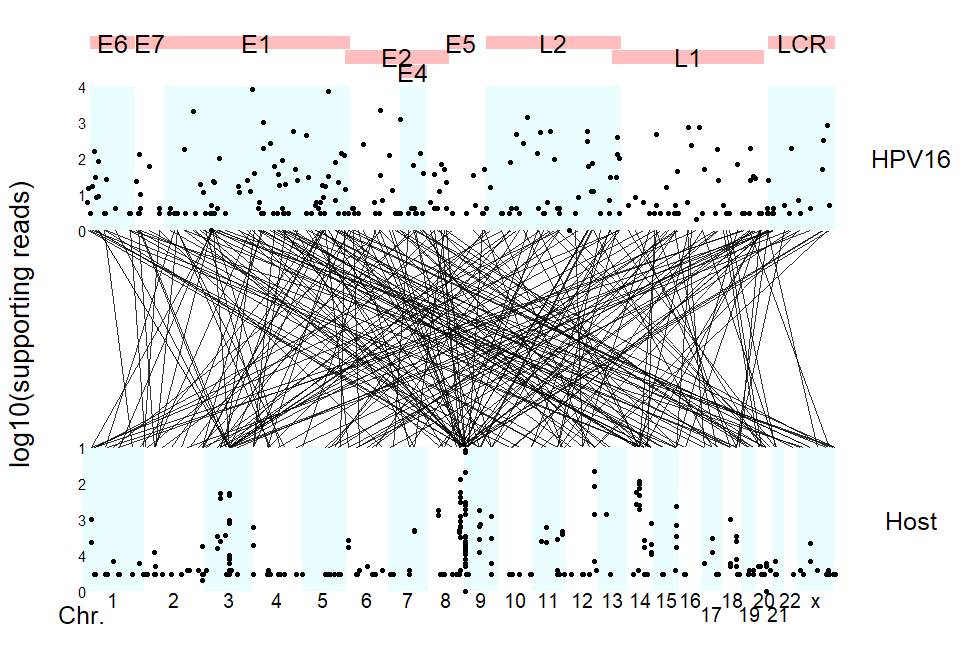
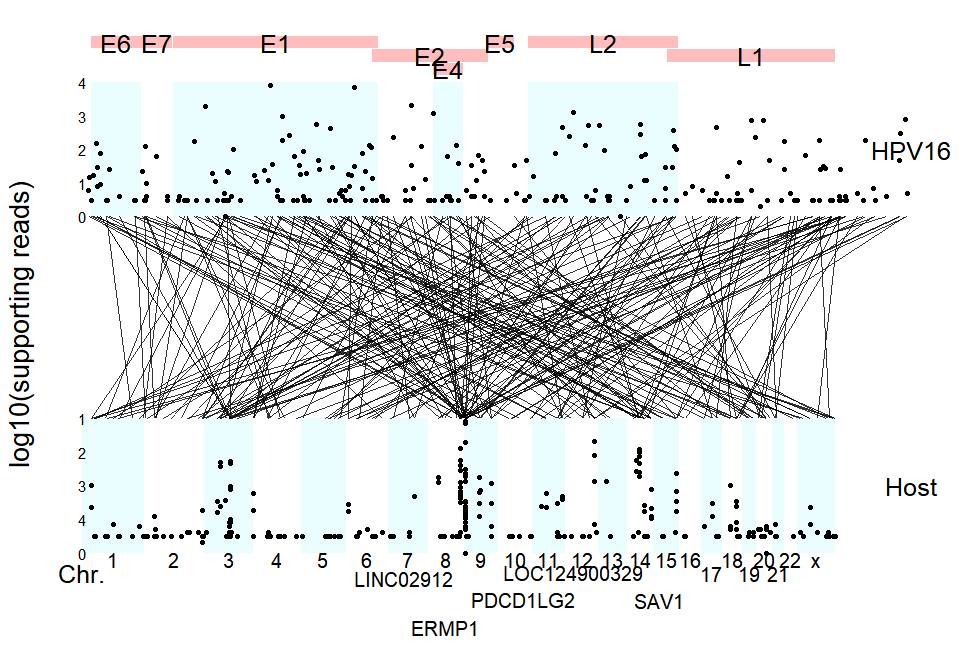
update

diff --git a/README.md b/README.md
@@ -27,6 +27,8 @@ Download virus genome
 
 ``` r
 library(virusPlot)
+#> 
+#> 
 genome <- get_virus_genom(accession_number = "NC_001526.2",
     email = "13766876214@163.com")
 head(genome)
@@ -44,7 +46,6 @@ Download virus annotation
 ``` r
 gene_features <- get_virus_annotation(accession_number = "NC_001526.2",
     email = "13766876214@163.com")
-#> No encoding supplied: defaulting to UTF-8.
 virus_info <- deal_virus_annotation(gene_features)
 virus_info
 #>   gene start  end
@@ -76,14 +77,27 @@ circle_virus(virus_info, insert_num)
 
 ``` r
 data(insert_info)
-virus_info <- data.frame(
-      gene = c("E6", "E7", "E1", "E2", "E4", "E5", "L2", "L1", "LCR"),
-      start = c(83, 562, 865, 2755, 3332, 3849, 4236, 5560, 7200),
-      end = c(559, 858, 2813, 3852, 3619, 4100, 5657, 7155, 7904))
-strudel_plot(virus_info, insert_info)
+# virus_info <- data.frame(
+#       gene = c("E6", "E7", "E1", "E2", "E4", "E5", "L2", "L1", "LCR"),
+#       start = c(83, 562, 865, 2755, 3332, 3849, 4236, 5560, 7200),
+#       end = c(559, 858, 2813, 3852, 3619, 4100, 5657, 7155, 7904))
+# HPV16
+gene_features <- get_virus_annotation(accession_number = "NC_001526.2",
+    email = "13766876214@163.com")
+virus_info_NC_001526 <- deal_virus_annotation(gene_features)
+strudel_plot(virus_info = virus_info_NC_001526, insert_info, hot_gene = 5)
+#> >> done...                    2024-01-31 19:06:13
 ```
 
 <img src="man/figures/README-unnamed-chunk-6-1.png" width="100%" />
+
+``` r
+strudel_plot(virus_info = virus_info_NC_001526, insert_info, 
+             hot_gene = c( "SAV1", "ZPLD1", "CHMP6", "IRS4"))
+#> >> done...                    2024-01-31 19:06:42
+```
+
+<img src="man/figures/README-unnamed-chunk-7-1.png" width="100%" />
 
 ``` r
 data(vcf_matrix)
@@ -95,7 +109,7 @@ oncoplot(vcf_matrix, varis_color = col,
     clinical_color = cli_colors, na.value = "#F3F5F7")
 ```
 
-<img src="man/figures/README-unnamed-chunk-7-1.png" width="100%" />
+<img src="man/figures/README-unnamed-chunk-8-1.png" width="100%" />
 
 ``` r
 sessionInfo()
@@ -117,27 +131,172 @@ sessionInfo()
 #> tzcode source: internal
 #> 
 #> attached base packages:
-#> [1] stats     graphics  grDevices utils     datasets  methods   base     
+#> [1] stats4    stats     graphics  grDevices utils     datasets  methods  
+#> [8] base     
 #> 
 #> other attached packages:
-#> [1] virusPlot_0.1.0
+#> [1] org.Hs.eg.db_3.18.0  AnnotationDbi_1.64.1 IRanges_2.36.0      
+#> [4] S4Vectors_0.40.1     Biobase_2.62.0       BiocGenerics_0.48.1 
+#> [7] virusPlot_0.1.1     
 #> 
 #> loaded via a namespace (and not attached):
-#>  [1] yulab.utils_0.0.9  tidyr_1.3.0        utf8_1.2.4         generics_0.1.3    
-#>  [5] ggplotify_0.1.2    maftools_2.18.0    lattice_0.21-9     digest_0.6.33     
-#>  [9] magrittr_2.0.3     shadowtext_0.1.2   RColorBrewer_1.1-3 evaluate_0.23     
-#> [13] grid_4.3.2         fastmap_1.1.1      Matrix_1.6-4       jsonlite_1.8.8    
-#> [17] survival_3.5-7     gridExtra_2.3      httr_1.4.7         purrr_1.0.2       
-#> [21] fansi_1.0.6        aplot_0.2.1        scales_1.3.0       ggstar_1.0.4      
-#> [25] XML_3.99-0.14      cli_3.6.2          rlang_1.1.3        splines_4.3.2     
-#> [29] munsell_0.5.0      withr_3.0.0        cachem_1.0.8       yaml_2.3.7        
-#> [33] DNAcopy_1.76.0     tools_4.3.2        memoise_2.0.1      dplyr_1.1.4       
-#> [37] colorspace_2.1-0   ggplot2_3.4.4      forcats_1.0.0      curl_5.1.0        
-#> [41] vctrs_0.6.5        R6_2.5.1           gridGraphics_0.5-1 lifecycle_1.0.4   
-#> [45] ggfun_0.1.3        pkgconfig_2.0.3    pillar_1.9.0       rentrez_1.2.3     
-#> [49] gtable_0.3.4       data.table_1.14.8  glue_1.7.0         aplotExtra_0.0.2  
-#> [53] xfun_0.40          tibble_3.2.1       tidyselect_1.2.0   highr_0.10        
-#> [57] rstudioapi_0.15.0  knitr_1.45         farver_2.1.1       htmltools_0.5.7   
-#> [61] patchwork_1.1.3    rmarkdown_2.25     ggsci_3.0.0        labeling_0.4.3    
-#> [65] compiler_4.3.2
+#>   [1] splines_4.3.2                           
+#>   [2] later_1.3.1                             
+#>   [3] BiocIO_1.12.0                           
+#>   [4] bitops_1.0-7                            
+#>   [5] ggplotify_0.1.2                         
+#>   [6] filelock_1.0.2                          
+#>   [7] tibble_3.2.1                            
+#>   [8] polyclip_1.10-6                         
+#>   [9] XML_3.99-0.14                           
+#>  [10] lifecycle_1.0.4                         
+#>  [11] lattice_0.21-9                          
+#>  [12] MASS_7.3-60                             
+#>  [13] magrittr_2.0.3                          
+#>  [14] rmarkdown_2.25                          
+#>  [15] yaml_2.3.7                              
+#>  [16] plotrix_3.8-4                           
+#>  [17] httpuv_1.6.12                           
+#>  [18] cowplot_1.1.1                           
+#>  [19] DBI_1.1.3                               
+#>  [20] RColorBrewer_1.1-3                      
+#>  [21] abind_1.4-5                             
+#>  [22] zlibbioc_1.48.0                         
+#>  [23] GenomicRanges_1.54.0                    
+#>  [24] purrr_1.0.2                             
+#>  [25] ggraph_2.1.0                            
+#>  [26] RCurl_1.98-1.12                         
+#>  [27] yulab.utils_0.0.9                       
+#>  [28] tweenr_2.0.2                            
+#>  [29] rappdirs_0.3.3                          
+#>  [30] GenomeInfoDbData_1.2.11                 
+#>  [31] enrichplot_1.23.1.991                   
+#>  [32] ggrepel_0.9.4                           
+#>  [33] tidytree_0.4.5                          
+#>  [34] rentrez_1.2.3                           
+#>  [35] ChIPseeker_1.39.0                       
+#>  [36] codetools_0.2-19                        
+#>  [37] DelayedArray_0.28.0                     
+#>  [38] DNAcopy_1.76.0                          
+#>  [39] DOSE_3.29.1.991                         
+#>  [40] xml2_1.3.5                              
+#>  [41] ggforce_0.4.1                           
+#>  [42] tidyselect_1.2.0                        
+#>  [43] aplot_0.2.1                             
+#>  [44] farver_2.1.1                            
+#>  [45] viridis_0.6.4                           
+#>  [46] matrixStats_1.0.0                       
+#>  [47] BiocFileCache_2.10.1                    
+#>  [48] GenomicAlignments_1.38.0                
+#>  [49] jsonlite_1.8.8                          
+#>  [50] ellipsis_0.3.2                          
+#>  [51] tidygraph_1.2.3                         
+#>  [52] survival_3.5-7                          
+#>  [53] tools_4.3.2                             
+#>  [54] progress_1.2.2                          
+#>  [55] treeio_1.26.0                           
+#>  [56] TxDb.Hsapiens.UCSC.hg19.knownGene_3.2.2 
+#>  [57] ggstar_1.0.4                            
+#>  [58] Rcpp_1.0.12                             
+#>  [59] glue_1.7.0                              
+#>  [60] gridExtra_2.3                           
+#>  [61] SparseArray_1.2.0                       
+#>  [62] xfun_0.40                               
+#>  [63] qvalue_2.34.0                           
+#>  [64] MatrixGenerics_1.14.0                   
+#>  [65] GenomeInfoDb_1.38.1                     
+#>  [66] dplyr_1.1.4                             
+#>  [67] withr_3.0.0                             
+#>  [68] BiocManager_1.30.22                     
+#>  [69] fastmap_1.1.1                           
+#>  [70] boot_1.3-28.1                           
+#>  [71] fansi_1.0.6                             
+#>  [72] caTools_1.18.2                          
+#>  [73] digest_0.6.33                           
+#>  [74] R6_2.5.1                                
+#>  [75] mime_0.12                               
+#>  [76] gridGraphics_0.5-1                      
+#>  [77] colorspace_2.1-0                        
+#>  [78] GO.db_3.18.0                            
+#>  [79] gtools_3.9.4                            
+#>  [80] biomaRt_2.58.0                          
+#>  [81] RSQLite_2.3.1                           
+#>  [82] utf8_1.2.4                              
+#>  [83] tidyr_1.3.0                             
+#>  [84] generics_0.1.3                          
+#>  [85] ggsci_3.0.0                             
+#>  [86] data.table_1.14.8                       
+#>  [87] rtracklayer_1.62.0                      
+#>  [88] prettyunits_1.2.0                       
+#>  [89] graphlayouts_1.0.1                      
+#>  [90] httr_1.4.7                              
+#>  [91] S4Arrays_1.2.0                          
+#>  [92] scatterpie_0.2.1                        
+#>  [93] pkgconfig_2.0.3                         
+#>  [94] gtable_0.3.4                            
+#>  [95] blob_1.2.4                              
+#>  [96] XVector_0.42.0                          
+#>  [97] shadowtext_0.1.2                        
+#>  [98] htmltools_0.5.7                         
+#>  [99] fgsea_1.28.0                            
+#> [100] scales_1.3.0                            
+#> [101] TxDb.Hsapiens.UCSC.hg38.knownGene_3.18.0
+#> [102] png_0.1-8                               
+#> [103] ggfun_0.1.3                             
+#> [104] knitr_1.45                              
+#> [105] rstudioapi_0.15.0                       
+#> [106] reshape2_1.4.4                          
+#> [107] rjson_0.2.21                            
+#> [108] nlme_3.1-163                            
+#> [109] curl_5.1.0                              
+#> [110] cachem_1.0.8                            
+#> [111] stringr_1.5.1                           
+#> [112] BiocVersion_3.18.1                      
+#> [113] KernSmooth_2.23-22                      
+#> [114] parallel_4.3.2                          
+#> [115] HDO.db_0.99.1                           
+#> [116] restfulr_0.0.15                         
+#> [117] pillar_1.9.0                            
+#> [118] grid_4.3.2                              
+#> [119] vctrs_0.6.5                             
+#> [120] gplots_3.1.3                            
+#> [121] promises_1.2.1                          
+#> [122] dbplyr_2.4.0                            
+#> [123] xtable_1.8-4                            
+#> [124] evaluate_0.23                           
+#> [125] GenomicFeatures_1.54.1                  
+#> [126] cli_3.6.2                               
+#> [127] compiler_4.3.2                          
+#> [128] Rsamtools_2.18.0                        
+#> [129] rlang_1.1.3                             
+#> [130] crayon_1.5.2                            
+#> [131] labeling_0.4.3                          
+#> [132] aplotExtra_0.0.2                        
+#> [133] forcats_1.0.0                           
+#> [134] maftools_2.18.0                         
+#> [135] plyr_1.8.9                              
+#> [136] stringi_1.7.12                          
+#> [137] viridisLite_0.4.2                       
+#> [138] BiocParallel_1.36.0                     
+#> [139] munsell_0.5.0                           
+#> [140] Biostrings_2.70.1                       
+#> [141] lazyeval_0.2.2                          
+#> [142] GOSemSim_2.28.0                         
+#> [143] Matrix_1.6-4                            
+#> [144] hms_1.1.3                               
+#> [145] patchwork_1.1.3                         
+#> [146] bit64_4.0.5                             
+#> [147] ggplot2_3.4.4                           
+#> [148] KEGGREST_1.42.0                         
+#> [149] shiny_1.8.0                             
+#> [150] SummarizedExperiment_1.32.0             
+#> [151] interactiveDisplayBase_1.40.0           
+#> [152] highr_0.10                              
+#> [153] AnnotationHub_3.10.0                    
+#> [154] igraph_1.5.1                            
+#> [155] memoise_2.0.1                           
+#> [156] ggtree_3.10.0                           
+#> [157] fastmatch_1.1-4                         
+#> [158] bit_4.0.5                               
+#> [159] ape_5.7-1
 ```
